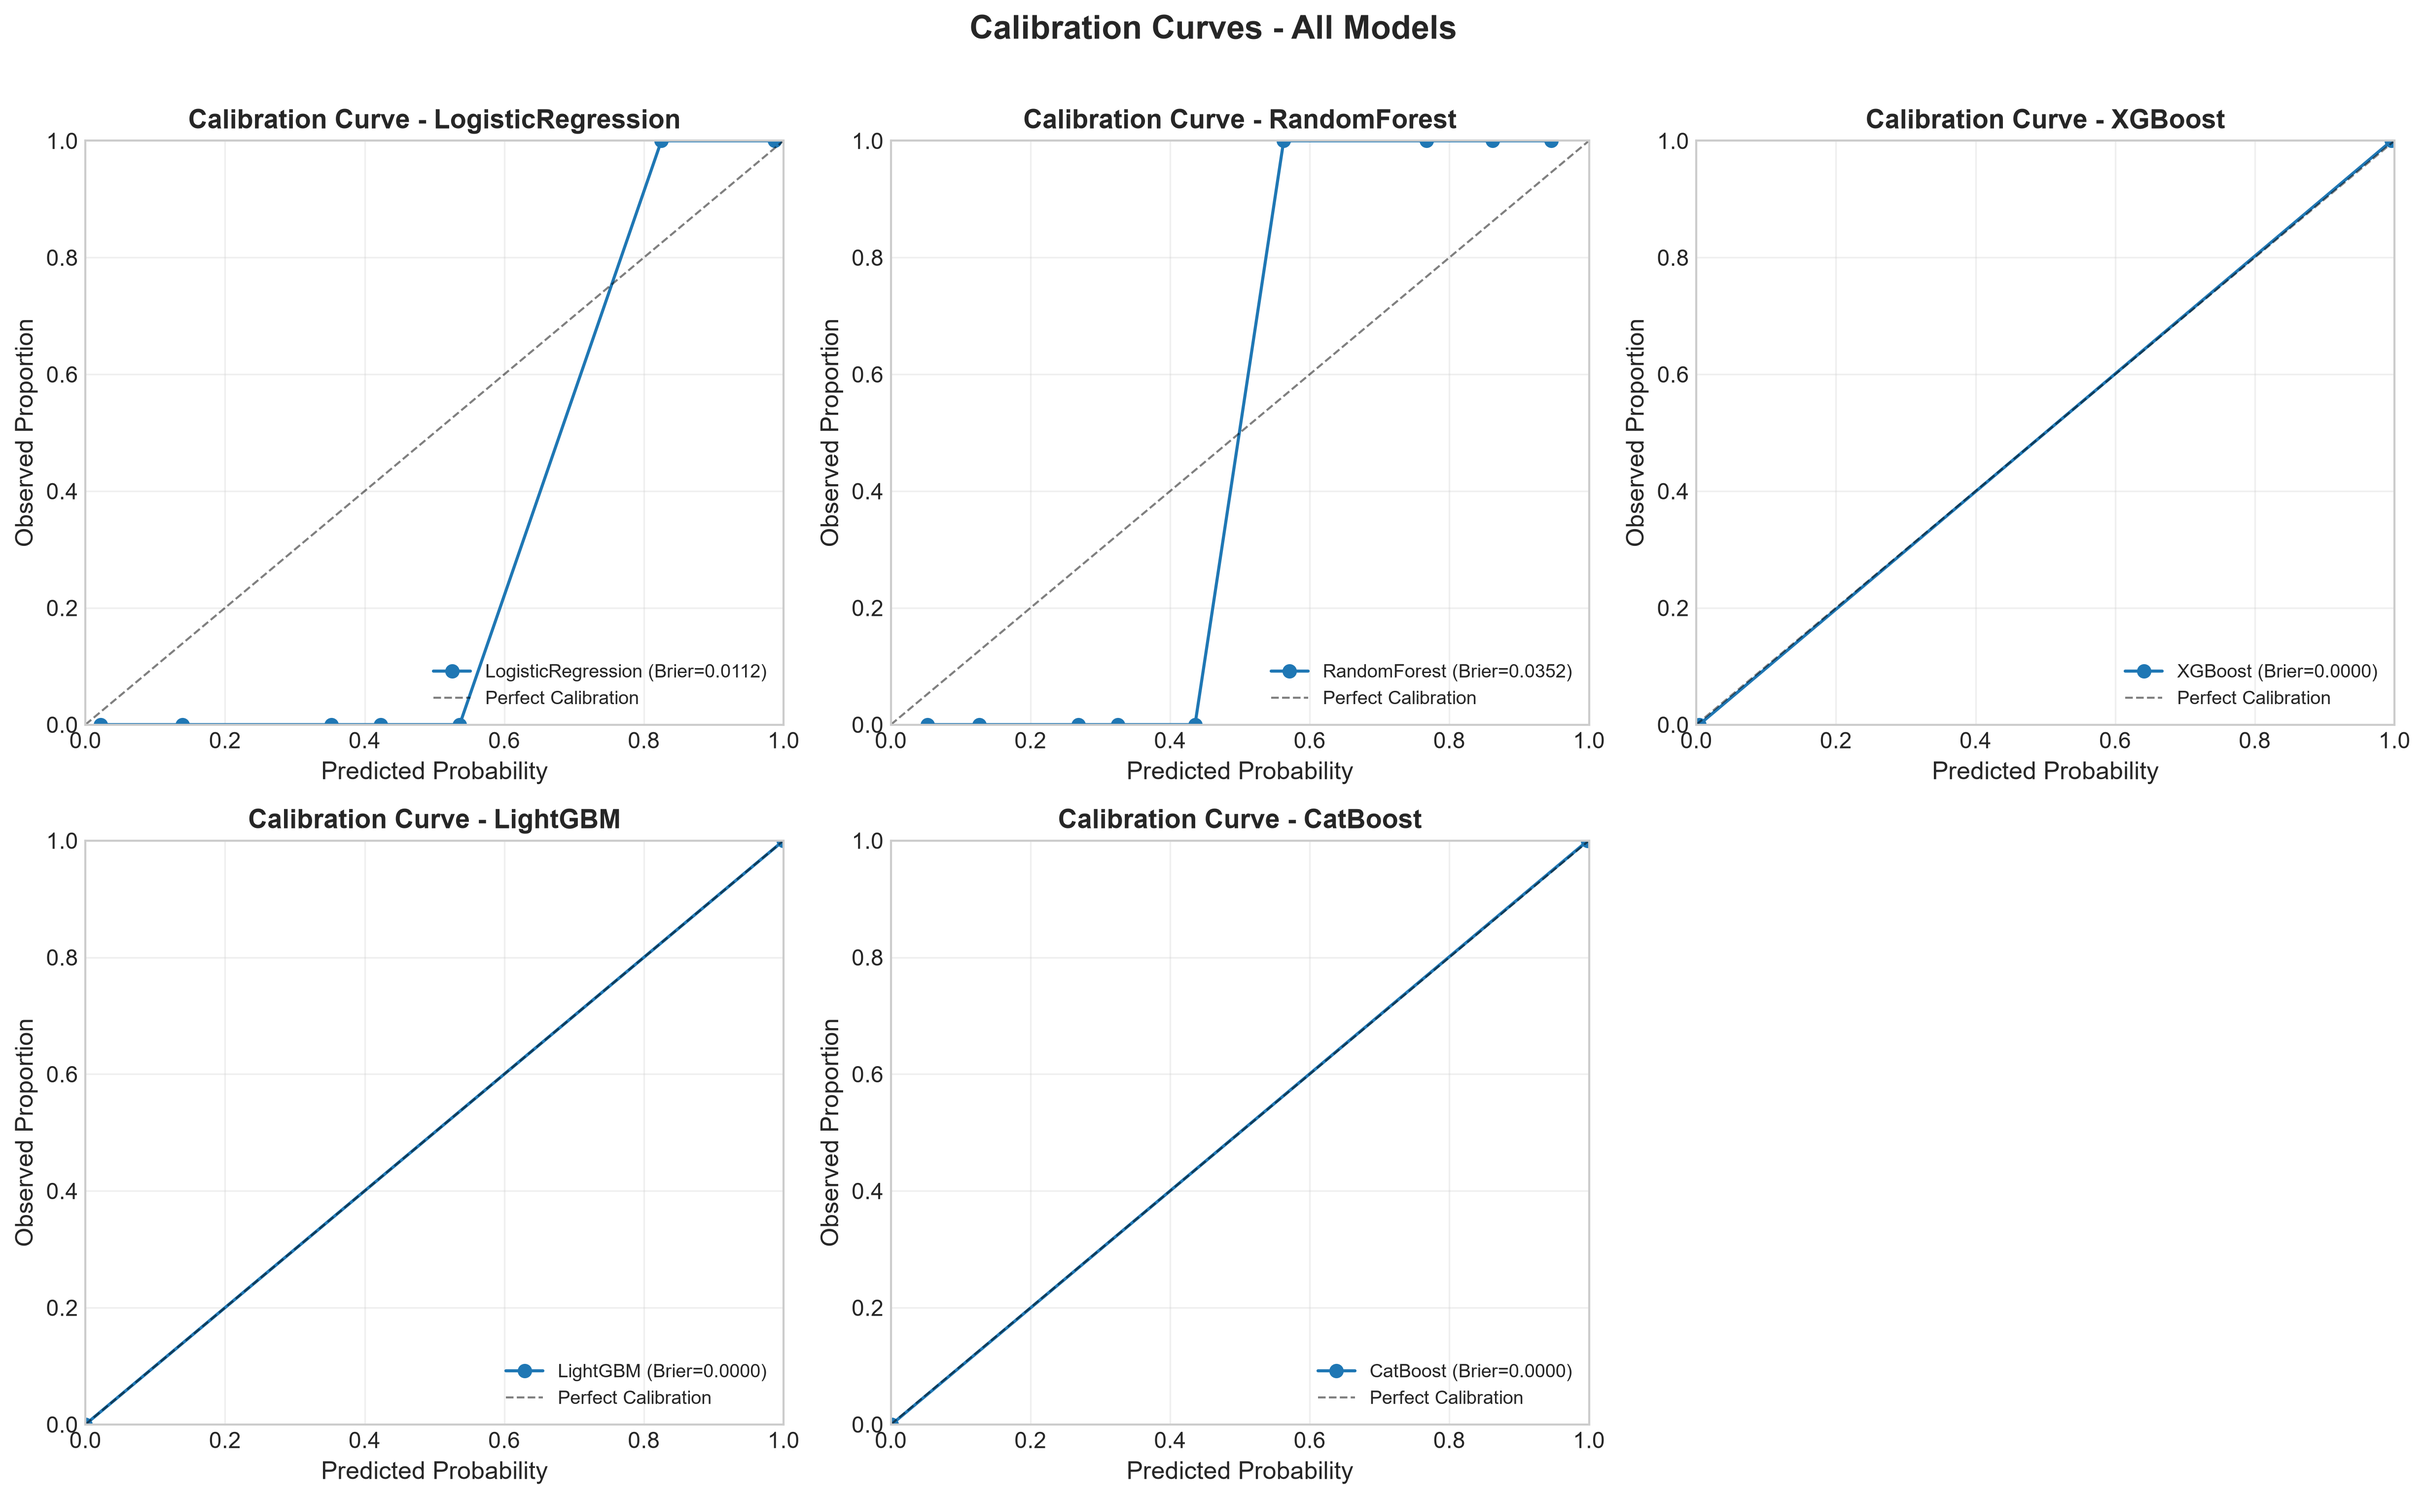
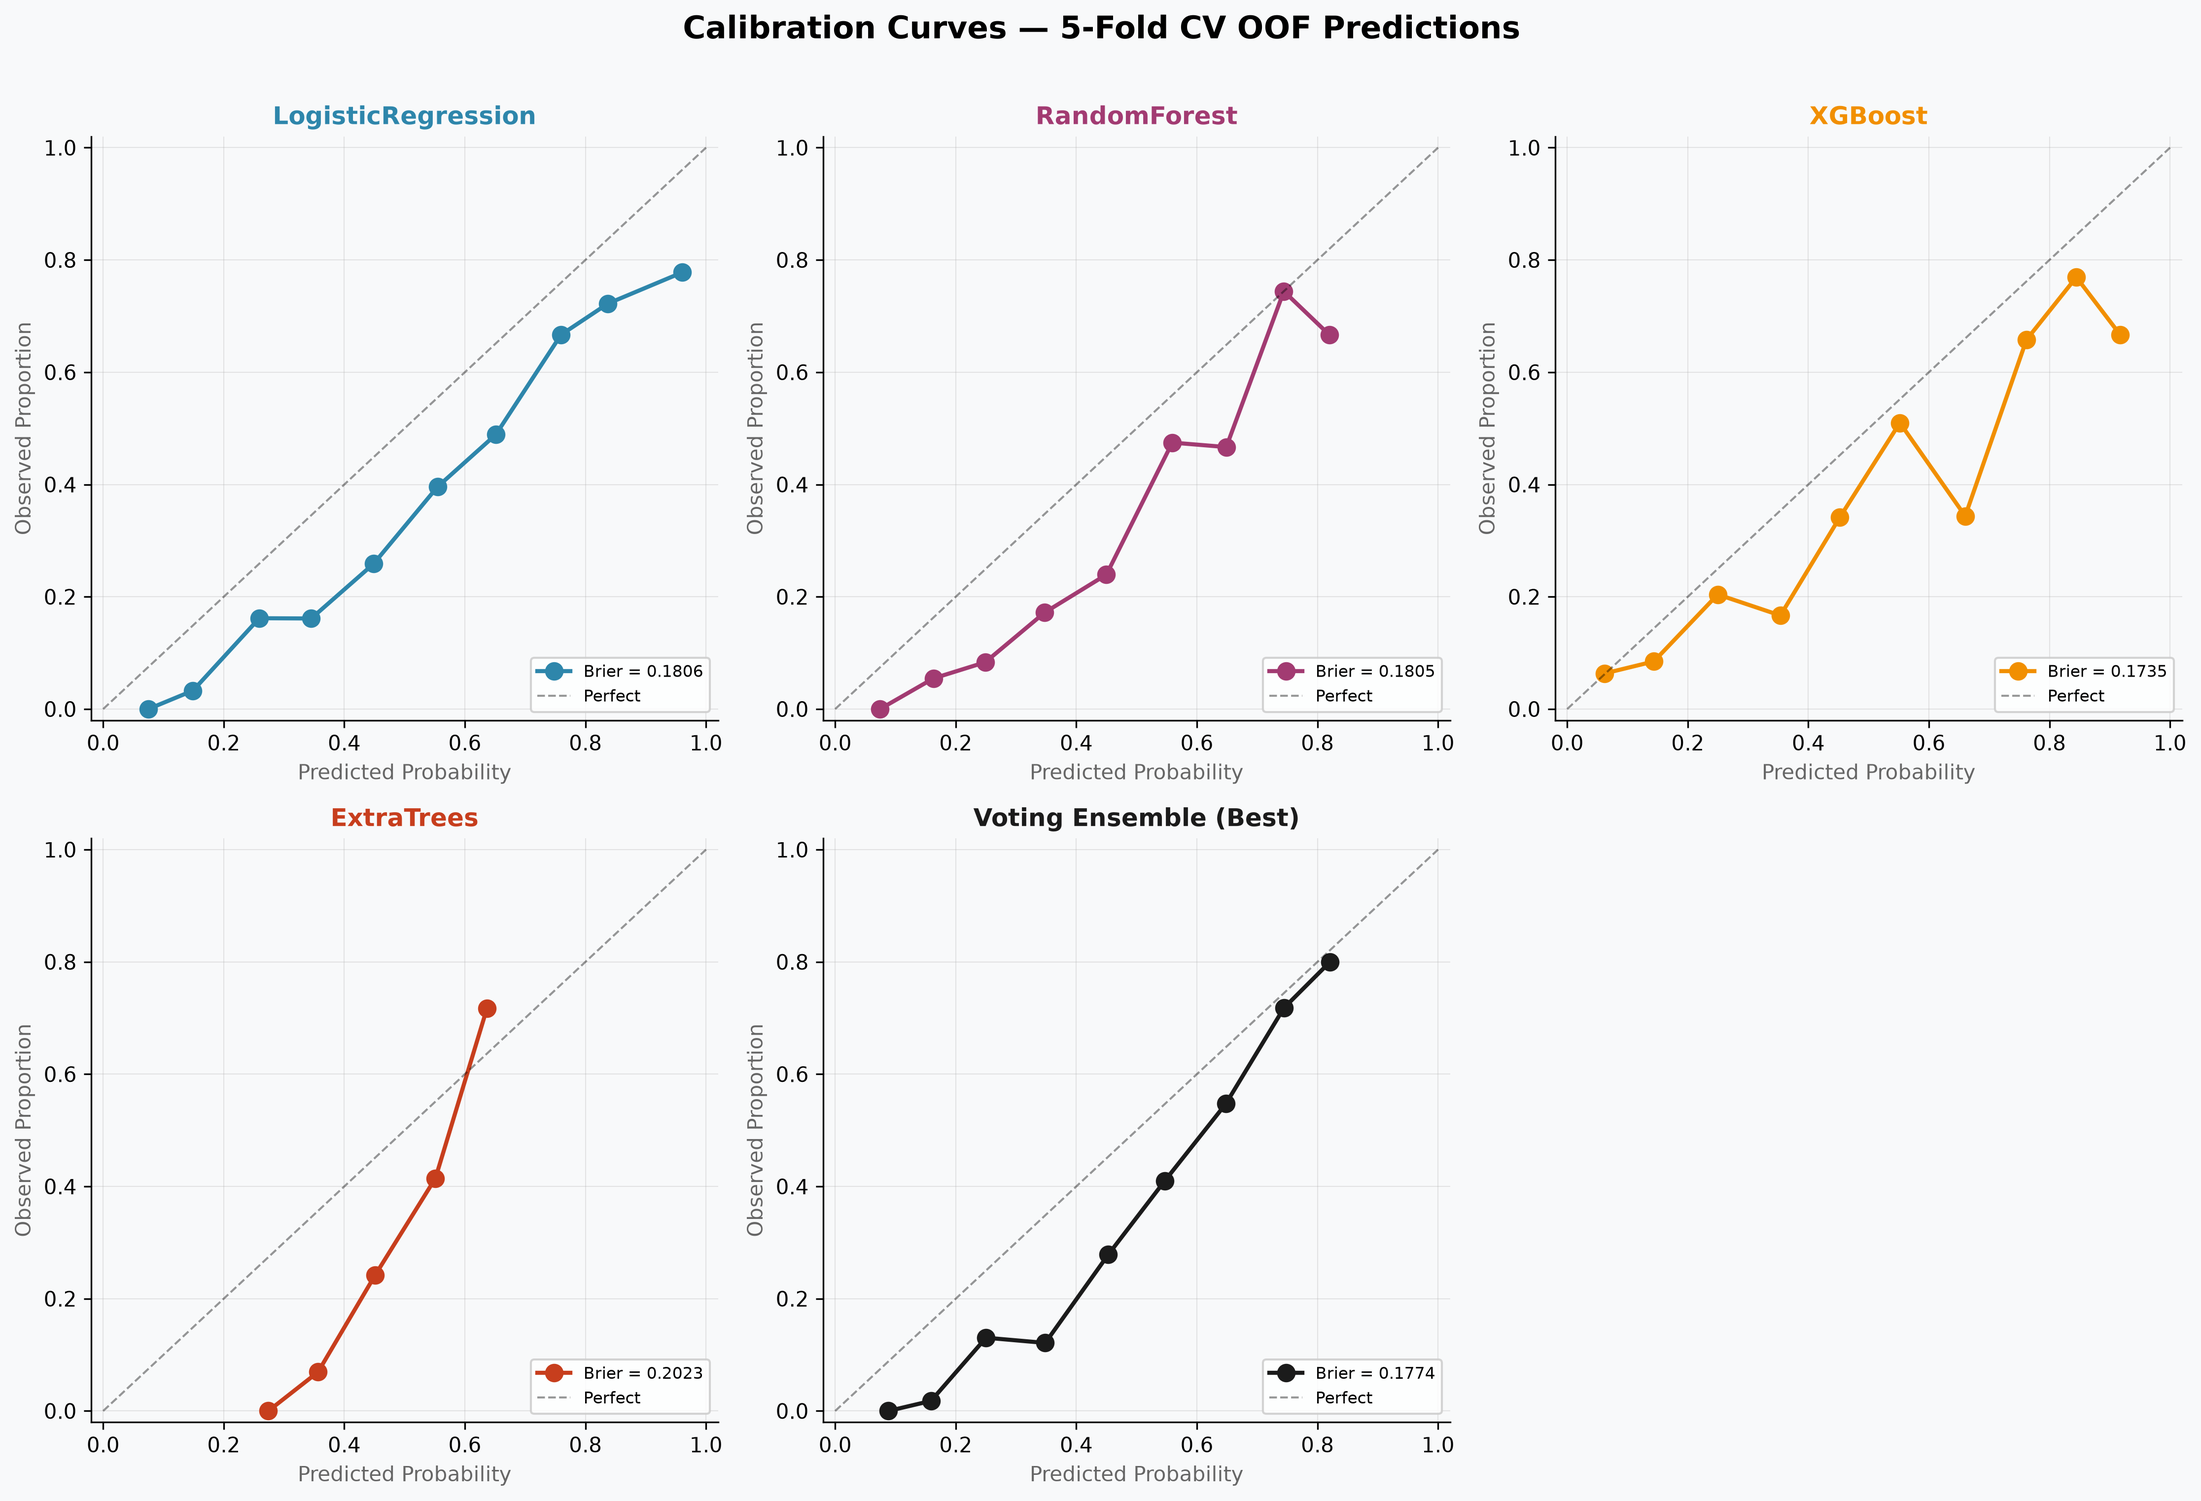
更新 calibration_curves.png: 5模型 OOF校准曲线 + 清理旧代码
- 新增 run_clean.py 模块5.5: 生成5模型校准曲线(OOF预测, 10 bins)
- 每个子图标注 Brier Score + AUC
- 清理 run_viz.py / run_full_pipeline.py 旧版生成代码

diff --git a/run_clean.py b/run_clean.py
@@ -493,6 +493,57 @@ fig4.savefig('outputs/figures/confusion_matrices.png', dpi=300, bbox_inches='tig
 plt.close(fig4)
 print(f"  [OK] Confusion matrices saved -> outputs/figures/confusion_matrices.png")
 
+# ── 校准曲线（OOF预测，5模型）──
+from sklearn.calibration import calibration_curve
+from sklearn.metrics import brier_score_loss
+
+fig5, axes5 = plt.subplots(2, 3, figsize=(15, 10))
+fig5.patch.set_facecolor('#F8F9FA')
+axes5_flat = axes5.ravel()
+
+for idx, name in enumerate(model_order):
+    ax = axes5_flat[idx]
+    ax.set_facecolor('#F8F9FA')
+
+    # OOF predictions
+    if name == 'Voting Ensemble':
+        y_prob = cross_val_predict(
+            voting, X_selected, y, cv=cv5, method='predict_proba', n_jobs=-1
+        )[:, 1]
+    else:
+        y_prob = cross_val_predict(
+            models[name], X_selected, y, cv=cv5, method='predict_proba', n_jobs=-1
+        )[:, 1]
+
+    prob_true, prob_pred = calibration_curve(y, y_prob, n_bins=10, strategy='uniform')
+    brier = brier_score_loss(y, y_prob)
+
+    ax.plot(prob_pred, prob_true, marker='o', linewidth=2, markersize=8,
+            color=model_colors[name], label=f'Brier = {brier:.4f}')
+    ax.plot([0, 1], [0, 1], 'k--', lw=1, alpha=0.4, label='Perfect')
+
+    title = f'{name}'
+    if name == 'Voting Ensemble':
+        title += ' (Best)'
+    ax.set_title(title, fontsize=12, fontweight='bold', color=model_colors[name])
+    ax.set_xlabel('Predicted Probability', fontsize=10, color='#666666')
+    ax.set_ylabel('Observed Proportion', fontsize=10, color='#666666')
+    ax.legend(loc='lower right', fontsize=8, framealpha=0.85)
+    ax.set_xlim([-0.02, 1.02]); ax.set_ylim([-0.02, 1.02])
+    ax.grid(True, alpha=0.3, linewidth=0.5)
+    ax.spines['top'].set_visible(False); ax.spines['right'].set_visible(False)
+    ax.plot([], [], ' ', label=f'AUC={all_results[name]["mean"]:.4f}')
+
+# Hide extra subplot
+axes5_flat[5].set_visible(False)
+
+fig5.suptitle('Calibration Curves — 5-Fold CV OOF Predictions', fontsize=15, fontweight='bold', y=1.01)
+fig5.tight_layout()
+fig5.savefig('outputs/figures/calibration_curves.png', dpi=300, bbox_inches='tight',
+             facecolor=fig5.get_facecolor())
+plt.close(fig5)
+print(f"  [OK] Calibration curves saved -> outputs/figures/calibration_curves.png")
+
 # ============================================================
 # 模块6：Bootstrap 验证
 # ============================================================

diff --git a/run_full_pipeline.py b/run_full_pipeline.py
@@ -338,13 +338,8 @@ print("  [SKIP] PR curves (已由 run_clean.py 统一生成)")
 # Confusion matrices — 已迁移至 run_clean.py
 print("  [SKIP] Confusion matrices (已由 run_clean.py 统一生成)")
 
-# Calibration curves
-print("Generating calibration curves...")
-try:
-    plot_cal_all(model_results_dict, save_name='calibration_curves.png')
-    print("  Calibration curves saved")
-except Exception as e:
-    print(f"  Calibration failed: {e}")
+# Calibration curves — 已迁移至 run_clean.py
+print("  [SKIP] Calibration curves (已由 run_clean.py 统一生成)")
 
 # DCA
 print("Generating DCA...")

diff --git a/run_viz.py b/run_viz.py
@@ -64,8 +64,8 @@ print('  Confusion Matrices: SKIP (已由 run_clean.py 统一生成)')
 
 # Note: calibration functions internally prepend FIGURES_DIR/TABLES_DIR, pass filename only
 print('  Calibration...')
-try:plot_calibration_curves_all(model_results,save_name='calibration_curves.png');print('    OK')
-except Exception as e:print(f'    FAIL: {e}')
+# Calibration — 已迁移至 run_clean.py
+print('  Calibration: SKIP (已由 run_clean.py 统一生成)')
 
 print('  DCA...')
 try:
